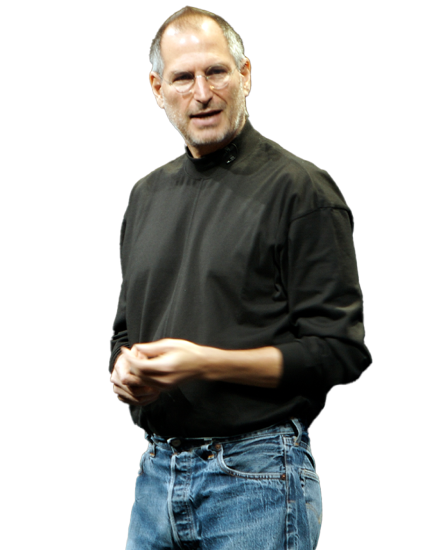
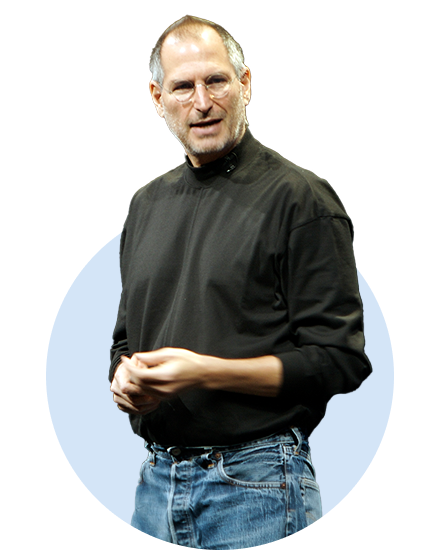
added

diff --git a/src/views/all-home-pages/CustomerSupport.jsx b/src/views/all-home-pages/CustomerSupport.jsx
@@ -14,6 +14,12 @@ import CopyRightTwo from "../../components/footer/CopyRightTwo";
 import Choose from "../../assets/images/assets/Home page (1).png";
 import Chatbot from "../../assets/images/assets/Group 6.png";
 import Chat from "../../assets/images/assets/Group 7.png";
+import Profile1 from "../../assets/images/assets/Profile 1.png";
+import Profile2 from "../../assets/images/assets/Profile 2.png";
+import Profile3 from "../../assets/images/assets/Profile 3.png";
+import Profile4 from "../../assets/images/assets/Profile 4.png";
+import Profile5 from "../../assets/images/assets/Profile 5.png";
+import Header from "../../components/e-commerce/Header";
 
 const CustomerSupport = () => {
   return (
@@ -26,7 +32,7 @@ const CustomerSupport = () => {
       {/* =============================================
 		   Start Header
 		   ============================================== */}
-      <HeaderTwo />
+      <Header />
       {/* End HeaderTwo Variation Three */}
 
       {/* =============================================
@@ -53,17 +59,17 @@ const CustomerSupport = () => {
           <div className="container">
             <div className="title-style-two text-center mb-100 md-mb-50">
               <div className="row">
-              <div className="col-xl-8 col-lg-9 col-md-10 m-auto">
-  <h2>
-    <span style={{ display: "block", whiteSpace: "nowrap" }}>
-      We unlock a meaningful
-    </span>
-    <span style={{ display: "block" }}>
-      experience.{" "}
-      <img src="images/shape/line-shape-2.svg" alt="shape" />
-    </span>
-  </h2>
-</div>
+                <div className="col-xl-8 col-lg-9 col-md-10 m-auto">
+                  <h2>
+                    <span style={{ display: "block", whiteSpace: "nowrap" }}>
+                      We unlock a meaningful
+                    </span>
+                    <span style={{ display: "block" }}>
+                      experience.{" "}
+                      <img src="images/shape/line-shape-2.svg" alt="shape" />
+                    </span>
+                  </h2>
+                </div>
 
                 {/* End .col */}
               </div>
@@ -94,7 +100,7 @@ const CustomerSupport = () => {
 				Fancy Text Block Six
 		============================================== */}
       <div className="fancy-text-block-six mt-250 md-mt-130">
-        <div className="container">
+        <div className="container position-relative">
           <div className="row">
             <div
               className="col-lg-6"
@@ -120,7 +126,7 @@ const CustomerSupport = () => {
         {/* End .container */}
 
         <div
-          className="img-meta-container"
+          className="img-meta-container position-absolute -top-2"
           data-aos="fade-left"
           data-aos-duration="1200"
           data-aos-delay="100"
@@ -222,9 +228,10 @@ const CustomerSupport = () => {
               <div className="col-xl-8 col-lg-9 col-md-10 m-auto">
                 <p>Features</p>
                 <h2>
-                  Use deski to drive growth at
+                  Discover the Impact
                   <span>
-                    your business.
+                    <br />
+                    We've Made
                     <img src="images/shape/line-shape-2.svg" alt="shape" />
                   </span>
                 </h2>
@@ -244,10 +251,10 @@ const CustomerSupport = () => {
                 <div className="text-details pt-35 md-pb-50">
                   <img src="images/icon/27.svg" alt="icon" className="icon" />
                   <h3 className="title font-gilroy-bold">
-                  Smart Assistance, Right Now.
+                    Smart Assistance, Right Now.
                   </h3>
                   <p className="text-meta">
-                  Hello, your instant support assistant! Our chatbot is here to help you find what you are looking for, answer your questions quickly, and guide you through our crucial services.
+                    Hello, your instant support assistant! Our chatbot is here to help you find what you are looking for, answer your questions quickly, and guide you through our crucial services.
                   </p>
                   <div className="quote-wrapper">
                     <div
@@ -264,7 +271,7 @@ const CustomerSupport = () => {
                       “Our team finds this platform to be extremely valuable due to its consistently high quality.”
                     </blockquote>
                     <div className="name">
-                      <strong>- A Happy User.</strong> 
+                      <strong>- A Happy User.</strong>
                     </div>
                   </div>
                   {/* /.quote-wrapper */}
@@ -317,10 +324,10 @@ const CustomerSupport = () => {
                 <div className="text-details pt-35 md-pb-50">
                   <img src="images/icon/29.svg" alt="" className="icon" />
                   <h3 className="title font-gilroy-bold">
-                  Witnessing Trust in Action: Client Stories
+                    Witnessing Trust in Action: Client Stories
                   </h3>
                   <p className="text-meta">
-                  Beyond traditional therapy, COGNI+ is helping ASD understand and accept society, providing holistic support for a more fulfilling life.
+                    Beyond traditional therapy, COGNI+ is helping ASD understand and accept society, providing holistic support for a more fulfilling life.
                   </p>
                   <div className="quote-wrapper">
                     <div
@@ -384,39 +391,7 @@ const CustomerSupport = () => {
       {/*=====================================================
 				Useable Tools
 			===================================================== */}
-      <div className="useable-tools-section-two bg-shape mb-200 md-mb-90">
-        <div className="bg-wrapper">
-          <div className="shapes shape-one"></div>
-          <div className="shapes shape-two"></div>
-          <div className="shapes shape-three"></div>
-          <div className="shapes shape-four"></div>
-          <div className="container">
-            <div className="title-style-two text-center mb-70 md-mb-10">
-              <div className="row">
-                <div className="col-lg-10 col-md-11 m-auto">
-                  <p>Integrates with your tools</p>
-                  <h2>
-                    Connect deski with the software you
-                    <span>
-                      use every
-                      <img src="images/shape/line-shape-2.svg" alt="" />
-                    </span>
-                    day.
-                  </h2>
-                </div>
-              </div>
-            </div>
-            {/*  /.title-style-two */}
 
-            <div className="icon-wrapper">
-              <Social />
-            </div>
-            {/* /.icon-wrapper */}
-          </div>
-          {/* /.container */}
-        </div>
-        {/* /.bg-wrapper */}
-      </div>
       {/* /.useable-tools-section-two */}
 
       {/* 	=====================================================
@@ -426,35 +401,35 @@ const CustomerSupport = () => {
         <div className="shapes-holder">
           <img src="images/shape/39.svg" alt="shape" />
           <img
-            src="images/shape/42.svg"
+            src={Profile1}
             alt="shape"
             className="shapes shape-one"
           />
           <img
-            src="images/media/img_21.png"
+            src={Profile2}
             alt="shape"
             className="cp-img-one"
           />
           <img
-            src="images/media/img_22.png"
+            src={Profile3}
             alt="shape"
             className="cp-img-two"
           />
           <img
-            src="images/media/img_23.png"
+            src={Profile4}
             alt="shape"
             className="cp-img-three"
           />
           <img
-            src="images/media/img_24.png"
+            src={Profile5}
             alt="shape"
             className="cp-img-four"
           />
           <div className="title-style-two">
             <h2>
-              What’s <br />
-              Our Client Say <br />
-              About Us.
+              Hear <br />
+              From Our  <br />
+              Clients.
             </h2>
           </div>
         </div>

diff --git a/src/components/testimonial/Testimonial.jsx b/src/components/testimonial/Testimonial.jsx
@@ -2,6 +2,8 @@ import React from "react";
 import Slider from "react-slick";
 import "slick-carousel/slick/slick.css";
 import "slick-carousel/slick/slick-theme.css";
+import Profile2 from "../../assets/images/assets/Profile 2.png";
+import Profile3 from "../../assets/images/assets/Profile 3.png";
 
 export default function Testimonial() {
   const settings = {
@@ -17,16 +19,16 @@ export default function Testimonial() {
 
   const TestimonilContent = [
     {
-      desc: ` Having a home based business is a wonderful asset to your life. The problem still stands it comes time advertise your business for a cheap cost. I know you have looked answer everywhere.`,
-      reviewerImg: "img_20",
-      reviewerName: "Jannatul Ekra",
-      designation: "Designer",
+      desc: `We cherish the solid bond we have established with Raiden. Their team's commitment and understanding of our requirements have made them a reliable collaborator.`,
+      reviewerImg: Profile2,
+      reviewerName: "Haritha Baskar",
+      designation: "Client",
     },
     {
-      desc: `Having a home based business is a wonderful asset to your life. The problem still stands it comes time advertise your business for a cheap cost. I know you have looked answer everywhere.`,
-      reviewerImg: "img_20",
-      reviewerName: "Bostami Hasan",
-      designation: "Front-end Engineer",
+      desc: `Raiden's cost-effectiveness, combined with the results we have achieved, makes them an excellent choice.`,
+      reviewerImg: Profile3,
+      reviewerName: "Julian Alric",
+      designation: "Client",
     },
   ];
 
@@ -42,7 +44,7 @@ export default function Testimonial() {
           <p className="font-rubik">{val.desc}</p>
           <div className="d-lg-flex align-items-center">
             <img
-              src={`images/media/${val.reviewerImg}.png`}
+              src={val.reviewerImg}
               alt=""
               className="c_img"
             />

diff --git a/src/assets/scss/_style.scss b/src/assets/scss/_style.scss
@@ -3770,7 +3770,7 @@ body .shop-btn-two:hover {
 .fancy-text-block-six .img-meta-container {
   position: absolute;
   right: 0;
-  top: 23px;
+  top: -40px;
   max-width: 42%;
 }
 .fancy-text-block-six .img-meta-container .shape-one {
